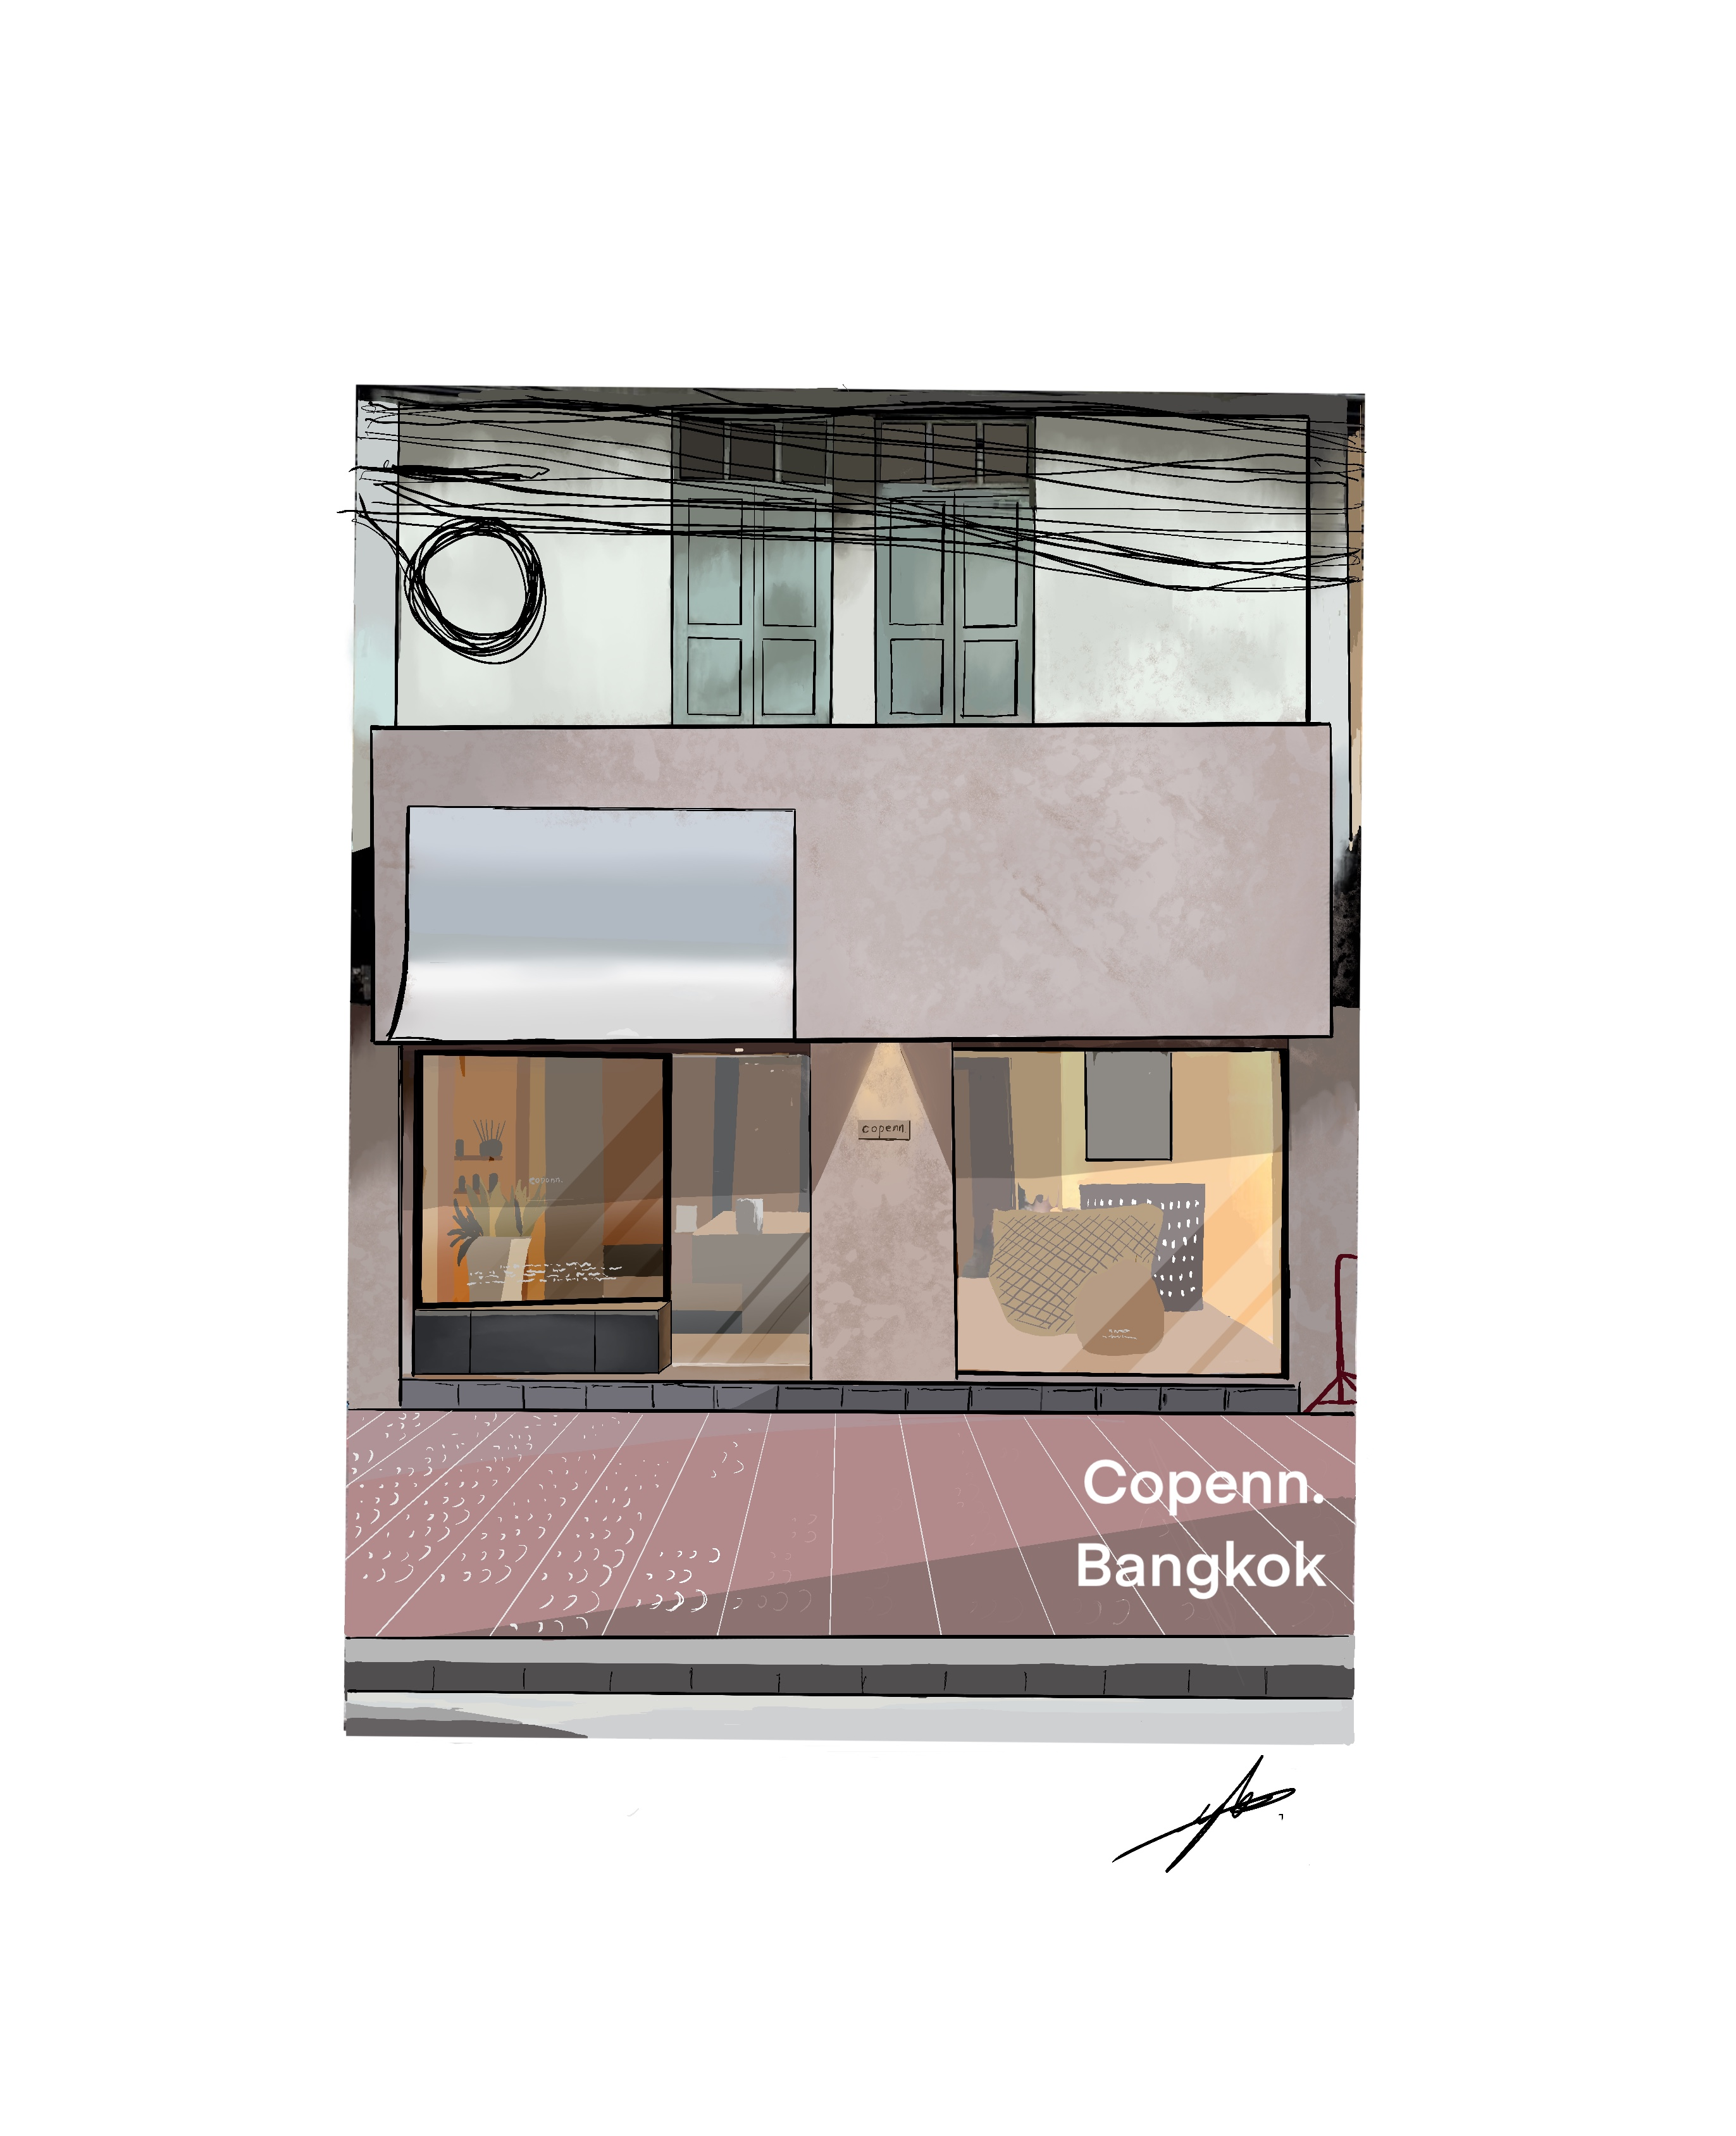
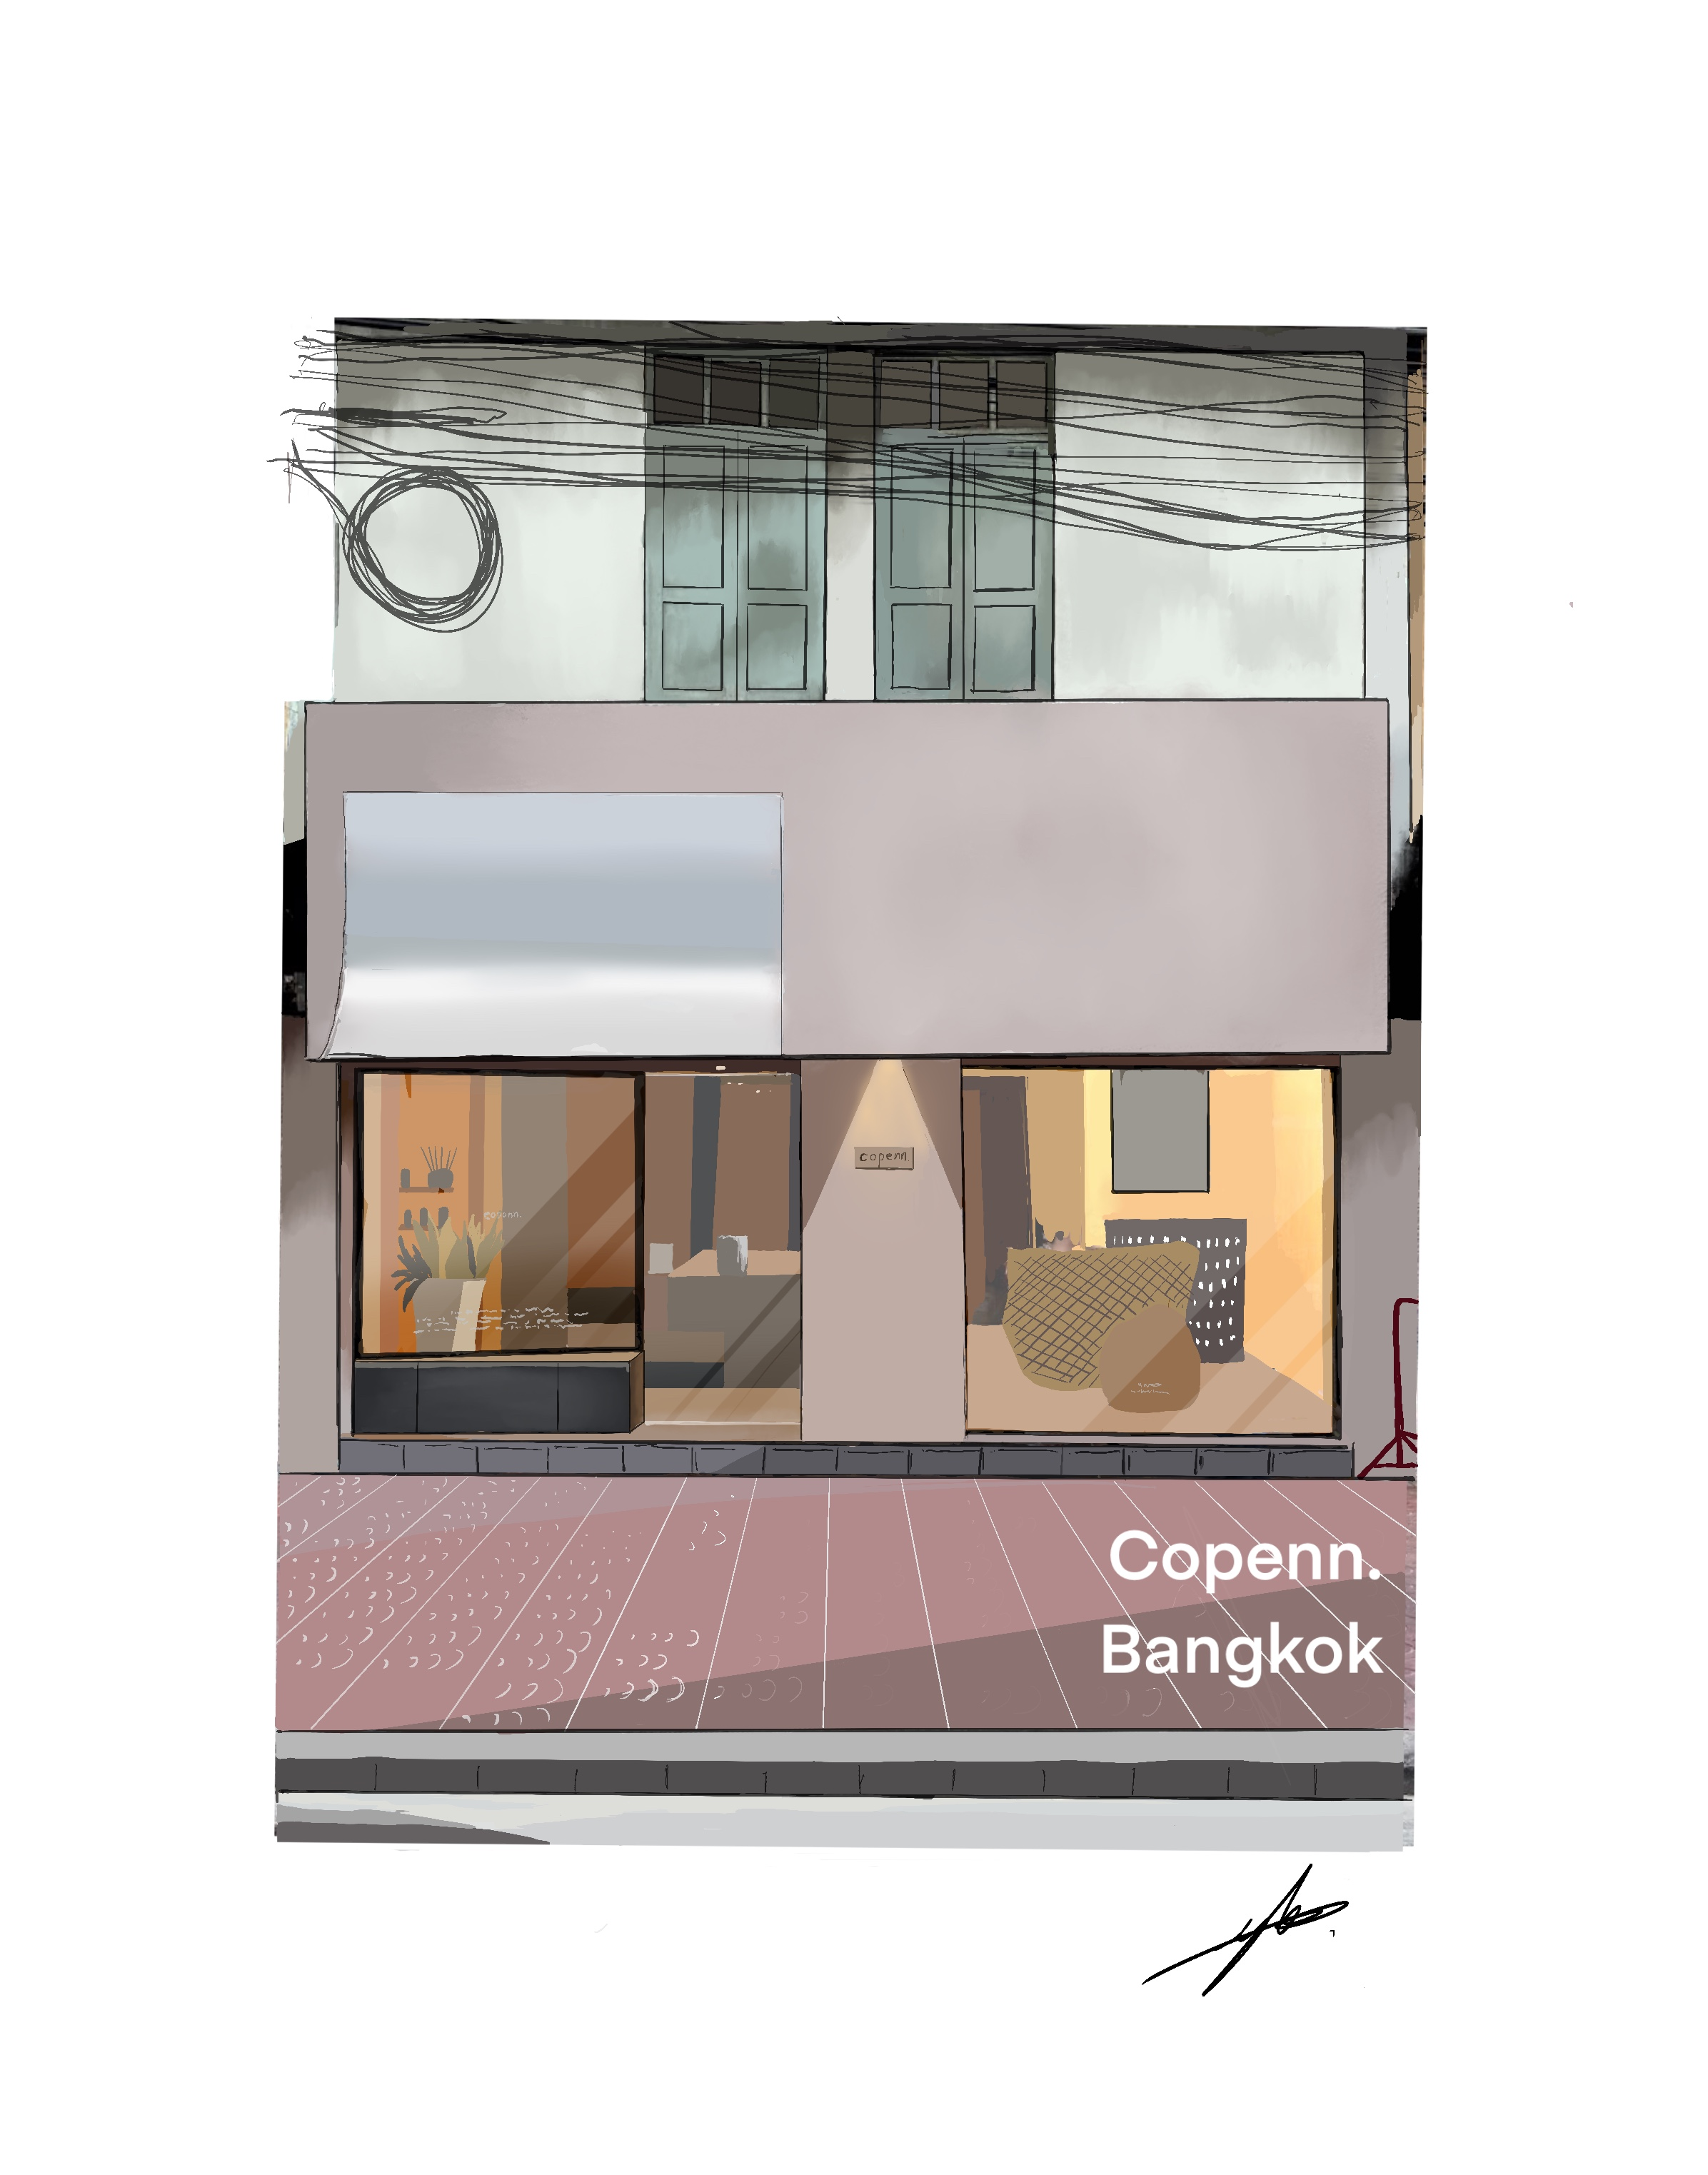
save

Changed region(s): [[0.1547, 0.1248, 0.8353, 0.9045]]

diff --git a/scripts/mineport-project-data.js b/scripts/mineport-project-data.js
@@ -12,6 +12,21 @@ function createProjectDetail(title, location, typology, category, year, descript
     };
 }
 
+const project6GalleryImages = ["1.jpg", "2.jpg", "3.jpg", "4.jpg", "5.jpg", "5-1.jpg", "6.jpg", "6-1.jpg", "7.jpg", "8.jpg", "9.jpg", "10.jpg", "11.jpg", "12.jpg", "13.jpg", "14.jpg", "15.jpg", "16.jpg", "17.jpg", "18.jpg", "19.jpg", "20.jpg", "21.jpg", "22.jpg", "23.jpg", "24.jpg", "25.jpg", "26.jpg", "27.jpg", "28.jpg", "29.jpg"].map(function (imageName) {
+    return "../assets/images/projects/project6/gallery/" + imageName + "?v=1";
+});
+
+const project6DetailImages = ["1.jpg", "2.jpg", "5.jpg", "5-1.jpg", "13.jpg", "14.jpg", "15.jpg", "16.jpg", "17.jpg", "18.jpg", "19.jpg", "20.jpg", "24.jpg", "25.jpg", "27.jpg", "28.jpg", "29.jpg"].map(function (imageName) {
+    return "../assets/images/projects/project6/detail/" + imageName + "?v=1";
+});
+
+const project6FullDescription = "This campus proposal evolves from a previous design investigation and explores the integration of interaction design and biomedical engineering within an interdisciplinary research environment. The project aims to create a platform that fosters collaboration between emerging technologies, human-centered design, and biomedical innovation. Through the rethinking of conventional laboratory typologies, the proposal examines how spatial organization can facilitate experimentation, knowledge exchange, and interdisciplinary interaction.\n\nThe design focuses on spatial innovation, conceptual transformation, and the development of laboratory environments that respond to contemporary societal challenges and technological advancements. By investigating appropriate laboratory scales, flexible research spaces, and collaborative learning environments, the project seeks to establish a new architectural framework that supports both scientific research and creative exploration. Ultimately, the proposal envisions a campus building that serves not only as a place for experimentation and innovation but also as an interface connecting technology, human experience, and the future of interdisciplinary education.";
+
+const project6Description = [
+    "This campus proposal evolves from a previous design investigation and explores the integration of interaction design and biomedical engineering within an interdisciplinary research environment.",
+    "The project aims to create a platform that fosters collaboration between emerging technologies, human-centered design, and biomedical innovation."
+];
+
 window.MINEPORT_PROJECT_DETAIL_DATA = [
     createProjectDetail("Double Interaction", "Taipei, Taiwan", "Education", "Architecture", "2024 Summer", ["A spatial study shaped by shifting views, layered circulation, and a quiet exchange between structure and movement.", "The project is conceived as a sequence of measured moments where public openness and intimate pause can coexist."], "../assets/images/projects/project1/card/project1.jpg"),
     createProjectDetail("Euphoria", "Senior Center", "Residential", "Architecture", "2023 Fall", ["Located in Toad Mountain, Taipei, this Senior Center uses dispersed volumes for resting, rehabilitation, social interaction, and reading, giving elderly users a freer and gentler daily rhythm."], "../assets/images/projects/project2/card/project2.jpg", ["1.jpg", "2-3.jpg", "2-4.jpg", "2-5.jpg", "2-6.png", "3.jpg", "4.jpg", "5.jpg", "5-1.jpg", "12.png", "13.png"].map(function (imageName) {
@@ -22,7 +37,7 @@ window.MINEPORT_PROJECT_DETAIL_DATA = [
     createProjectDetail("Light, Stone, Hope", "Taipei, Taiwan", "Religious", "Architecture", "2024 Fall", ["A design composition where light and material weight are balanced to produce a restrained but emotional field.", "The visual language stays minimal while allowing texture, shadow, and proportion to carry the narrative."], "../assets/images/projects/project3/card/project3.jpg"),
     createProjectDetail("Stone Horizon House", "Los Angeles, USA", "Residential", "Architecture", "2024 Spring", ["A residential concept framed by long horizons, low silhouettes, and a measured relationship between land and enclosure.", "The project explores how stillness can be expressed through geometry, light, and carefully edited material transitions."], "../assets/images/projects/project4/card/project4.jpg"),
     createProjectDetail("Stone Horizon House", "Los Angeles, USA", "Culture", "Architecture", "2023 Winter", ["An interior-forward reading of the project that focuses on tactile surfaces, tone, and a disciplined editing of detail.", "Furniture, openings, and circulation are treated as part of one continuous visual composition."], "../assets/images/projects/project5/card/project5.jpg"),
-    createProjectDetail("Stone Horizon House", "Los Angeles, USA", "Education", "Architecture", "2025 Summer", ["This version extends the project into a more image-driven exploration of atmosphere and narrative framing.", "The result is less about object and more about mood, pacing, and emotional resonance."], "../assets/images/projects/project6/card/project6.jpg"),
+    createProjectDetail("Stone Horizon House", "Interdisciplinary Lab", "Education", "Architecture", "2025 Summer", project6Description, "../assets/images/projects/project6/card/project6.jpg", project6DetailImages, project6GalleryImages, project6FullDescription),
     createProjectDetail("Kitchenless", "COLLECTIVE HOUSING", "Residential", "Architecture", "2024 Winter", ["This kitchenless social housing concept optimizes space and cost while encouraging community through shared kitchens.", "It responds to food delivery, meal services, and sustainability trends with a more affordable, resource-efficient model for urban living."], "../assets/images/projects/project7/card/project7.jpg", [1, 6, 7, 9, 10, 11, 12, 14, 18].map(function (imageNumber) {
         return "../assets/images/projects/project7/detail/" + imageNumber + ".jpg?v=1";
     }), ["1.jpg", "1-1.jpg", "1-2.jpg", "1-3.png", "1-4.jpg", "2.jpg", "3.jpg", "4.jpg", "5.jpg", "6.jpg", "7.jpg", "8.jpg", "9.jpg", "10.jpg", "11.jpg", "12.jpg", "13.jpg", "14.jpg", "15.jpg", "16.jpg", "17.jpg", "18.jpg", "19.jpg", "20.jpg"].map(function (imageName) {
@@ -32,5 +47,5 @@ window.MINEPORT_PROJECT_DETAIL_DATA = [
     createProjectDetail("Stone Horizon House", "Los Angeles, USA", "Culture", "Architecture", "2026 Summer", ["A design exercise in compositional order, highlighting how proportion and alignment can carry visual clarity.", "Small shifts in edge, rhythm, and material tone shape the overall reading of the space."], "../assets/images/projects/project9/card/project9.jpg"),
     createProjectDetail("Stone Horizon House", "Los Angeles, USA", "Residential", "Architecture", "2020-2024", ["An updated architectural proposal that refines the dialogue between envelope, light, and circulation.", "The project privileges spatial atmosphere over statement, allowing experience to unfold gradually."], "../assets/images/projects/project4/card/project4.jpg"),
     createProjectDetail("Stone Horizon House", "Los Angeles, USA", "Education", "Design", "2019-2026", ["A spatial design proposal centered on editing, restraint, and the visual weight of each surface condition.", "The composition seeks balance between tactile intimacy and overall formal control."], "../assets/images/projects/project5/card/project5.jpg"),
-    createProjectDetail("Stone Horizon House", "Los Angeles, USA", "Religious", "Architecture", "2018-2022", ["A project told through image sequences that emphasize mood, tempo, and the relationship between figure and background.", "It turns architecture into an emotional frame rather than a static object."], "../assets/images/projects/project6/card/project6.jpg")
+    createProjectDetail("Stone Horizon House", "Interdisciplinary Lab", "Religious", "Architecture", "2018-2022", project6Description, "../assets/images/projects/project6/card/project6.jpg", project6DetailImages, project6GalleryImages, project6FullDescription)
 ];

diff --git a/index.html b/index.html
@@ -284,7 +284,7 @@
                         <article class="drawings-card">
                             <div class="drawings-media-wrap">
                                 <span class="drawings-index">008</span>
-                                <img class="drawings-image" src="assets/images/drawings/drawings7.JPG" alt="Drawing study 008">
+                                <img class="drawings-image" src="assets/images/drawings/drawings7.jpg" alt="Drawing study 008">
                                 <div class="drawings-caption">
                                     <h3>Visual Study Eight</h3>
                                     <p>Surface - Space - Detail</p>
@@ -309,6 +309,17 @@
                                 <img class="drawings-image" src="assets/images/drawings/drawings9.jpg" alt="Drawing study 010">
                                 <div class="drawings-caption">
                                     <h3>Visual Study Ten</h3>
+                                    <p>Atmosphere - Edit - Sequence</p>
+                                </div>
+                            </div>
+                        </article>
+
+                        <article class="drawings-card">
+                            <div class="drawings-media-wrap">
+                                <span class="drawings-index">011</span>
+                                <img class="drawings-image" src="assets/images/drawings/drawings10.jpg" alt="Drawing study 011">
+                                <div class="drawings-caption">
+                                    <h3>Visual Study Eleven</h3>
                                     <p>Atmosphere - Edit - Sequence</p>
                                 </div>
                             </div>